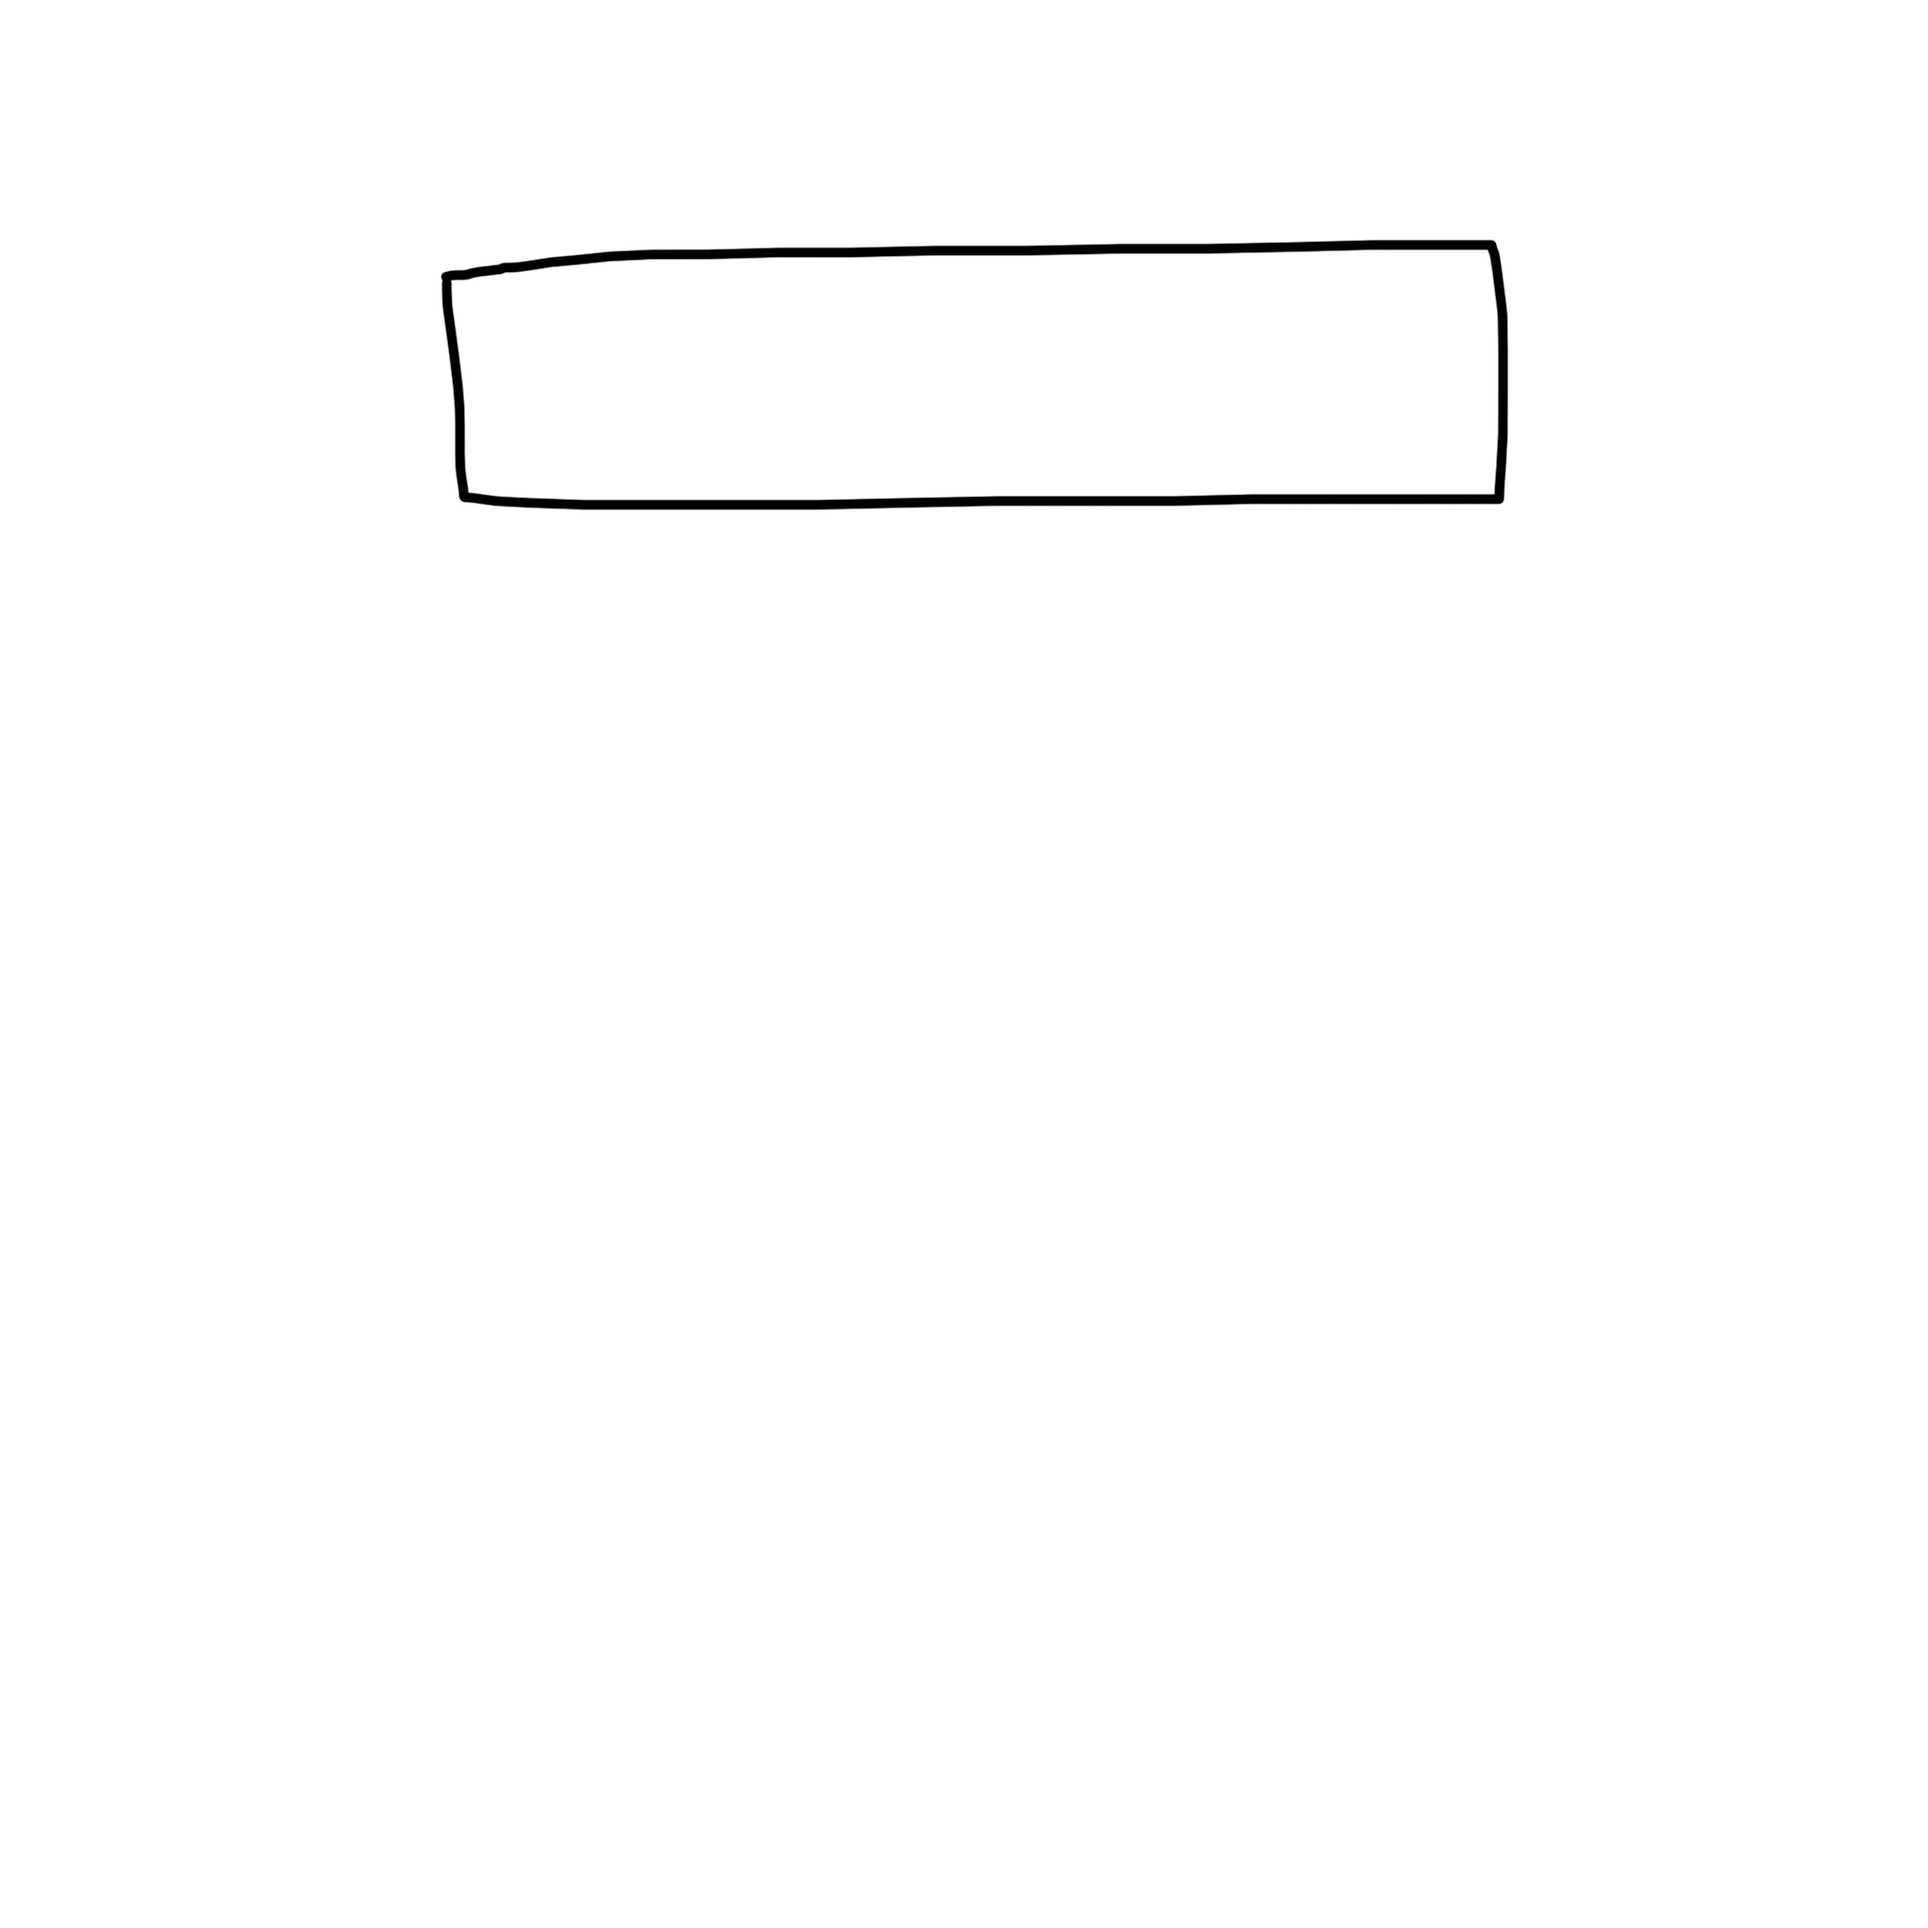
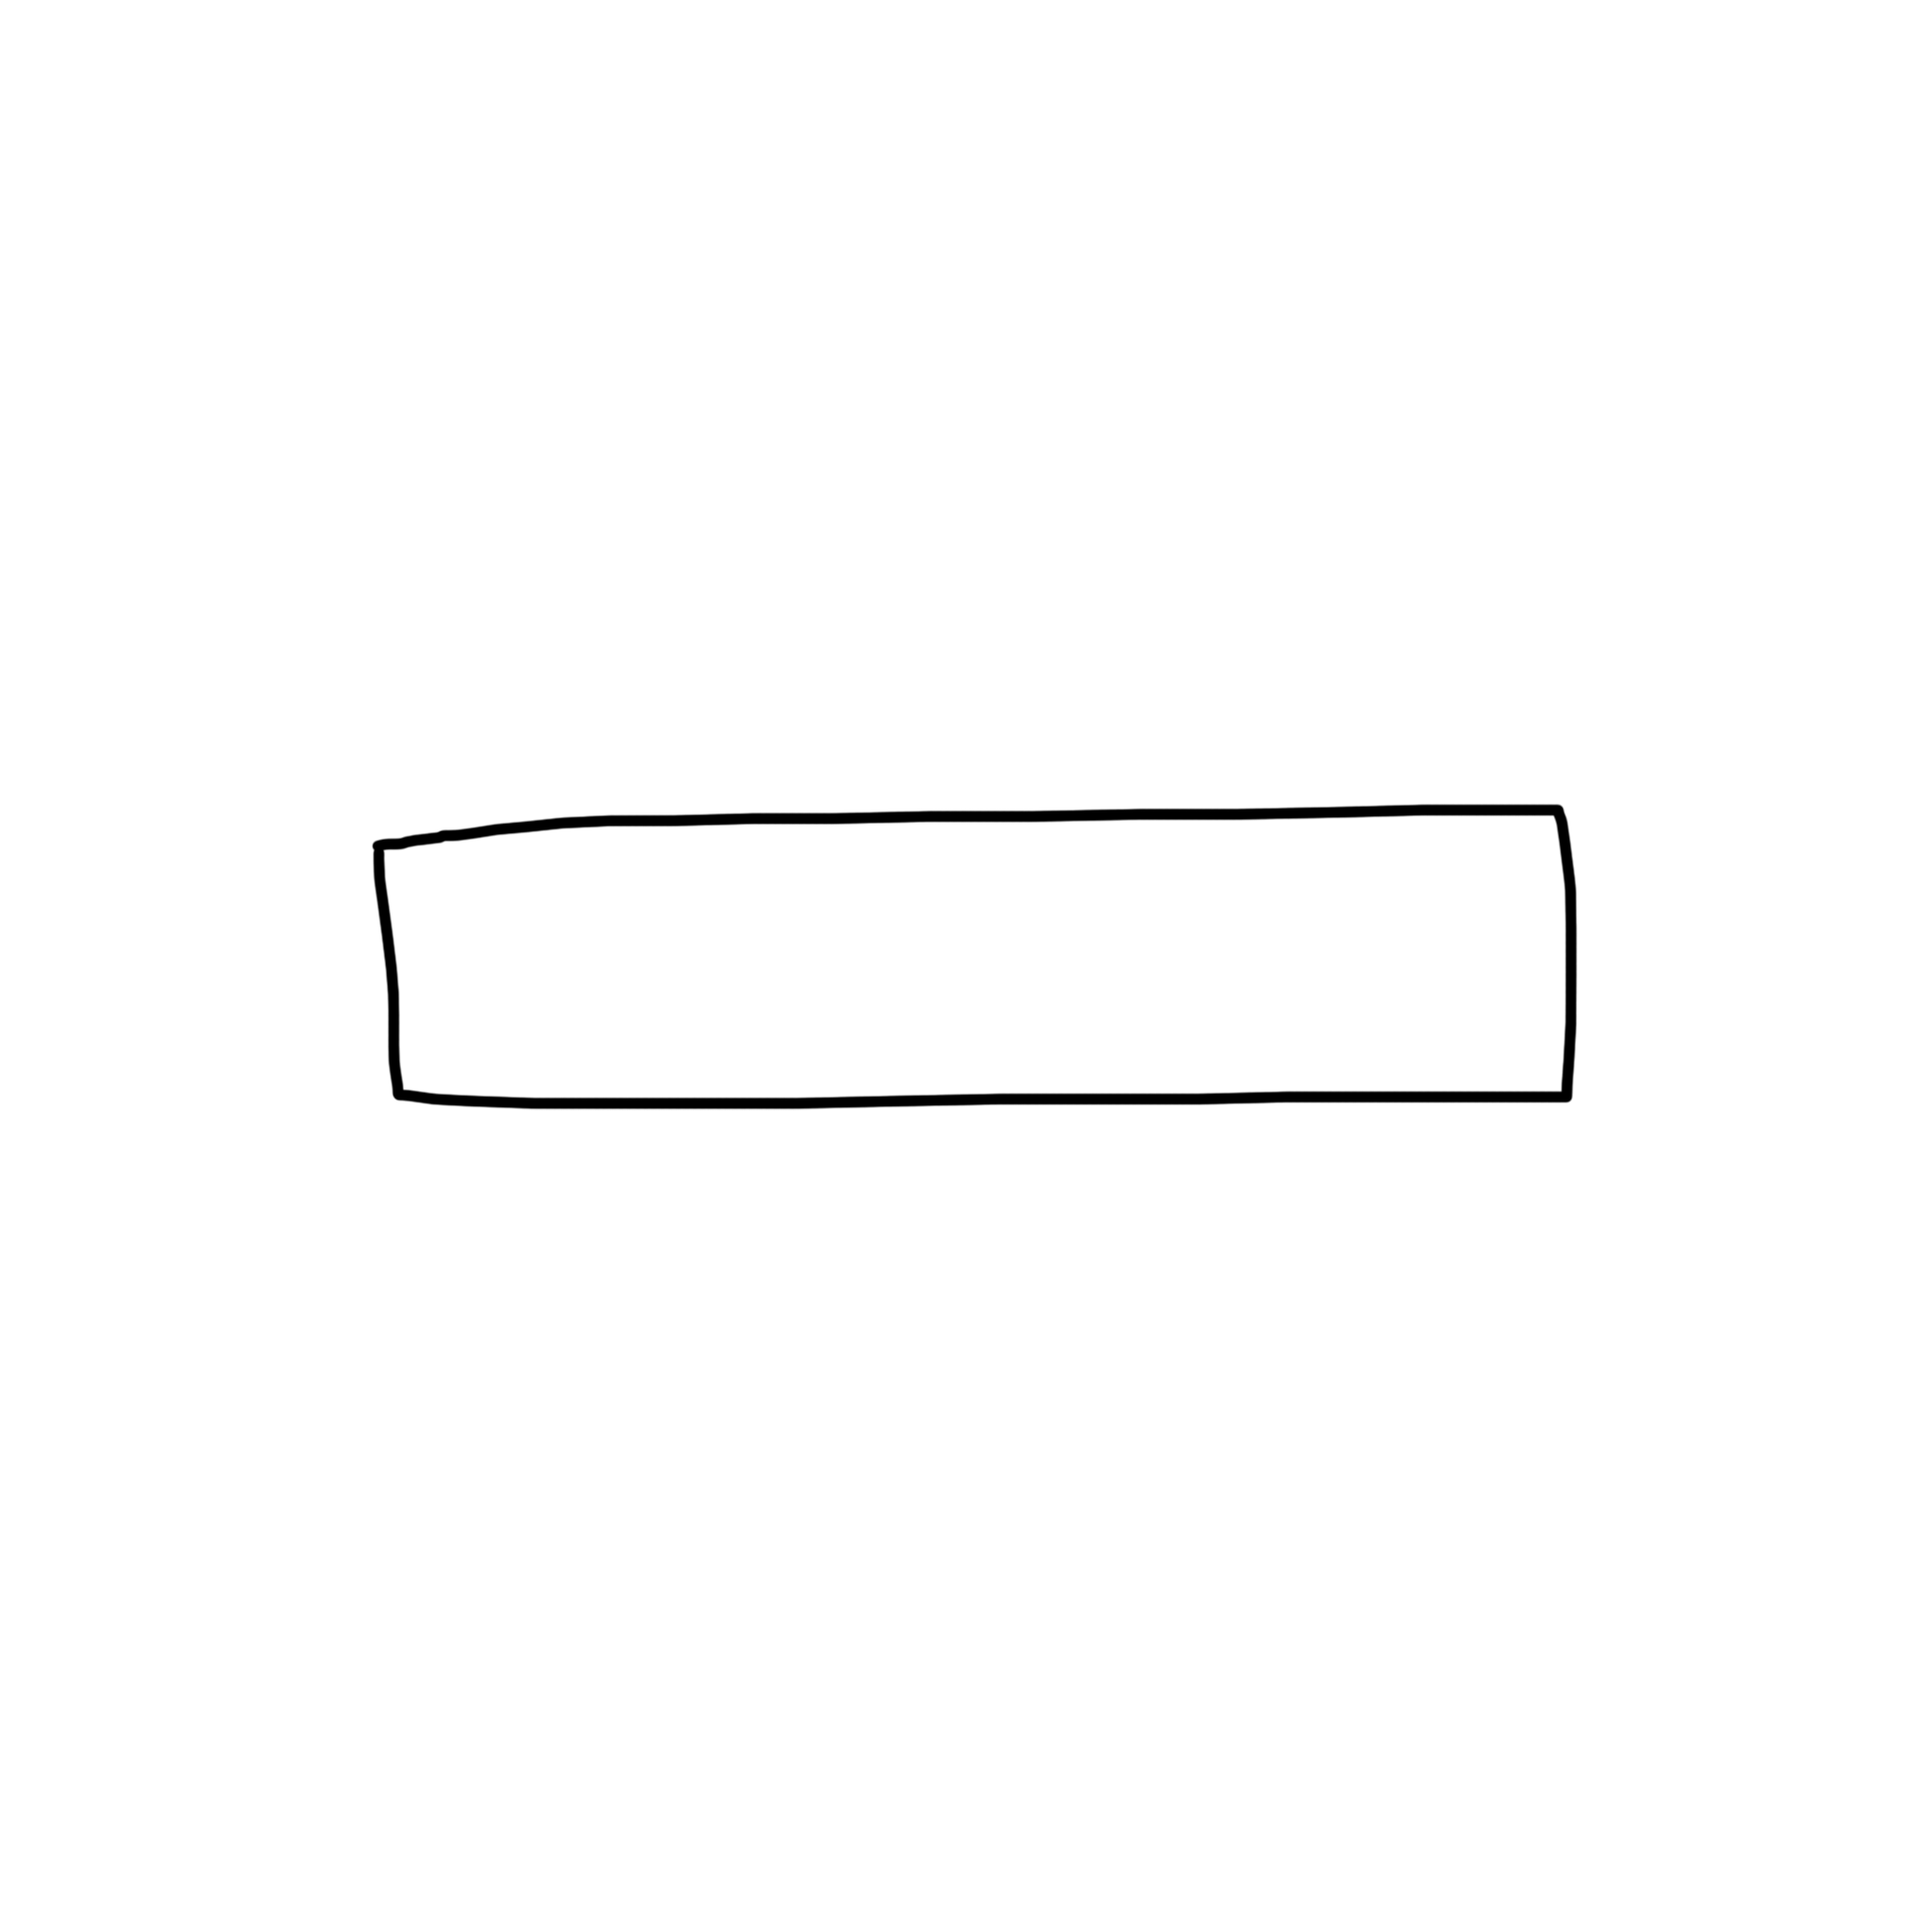
UX update

diff --git a/demos/nextjs/soul-summons/src/app/thinking-meme/Thinker.tsx b/demos/nextjs/soul-summons/src/app/thinking-meme/Thinker.tsx
@@ -98,25 +98,59 @@ export default function Thinker() {
     ]
 
     const positions = [
-        'w-[10em] top-[14%] left-[33%] text-center',
-        'w-[10em] top-[49%] right-[7%] text-right',
-        'w-[10em] bottom-[17%] left-[30%] text-center',
-        'w-[10em] top-[48%] left-[6%] text-left',
+        'w-[50%] top-[7%] left-[30%] text-center',
+        'w-[50%] top-[50%] right-[-4%] text-right',
+        'w-[50%] bottom-[8%] left-[28%] text-center',
+        'w-[50%] top-[49%] left-[-8%] text-left',
     ]
+
 
     return (
         <>
+
+
+            <div className={`bg-white w-screen flex justify-center ${scale}`}>
+                <Bentoish className={`relative w-[24em] h-[24em] `}>
+
+                    <ImageLayer src={'/thinking-meme/ThinkingMeme_input.png'} className={stateClassName['waiting']} />
+
+                    <div className=''>
+                        {cycles.map((c, i) =>
+                            <Blinking key={i} enabled={i.toString() === cycle} opacity={true}>
+                                <TextBox
+                                    text={`${c}`}
+                                    className={`absolute z-[1000] max-w-[11em] text-sm text-gray-400 ${textStyle} ${showBorder} ${positions[i]}`}
+                                />
+                            </Blinking>
+                        )}
+                        <ImageLayer src={'/thinking-meme/ThinkingMeme_cycle.png'} />
+                        {/* <ImageLayer className='scale-[.75]' src={'/thinking-meme/ThinkingMeme_chair.png'} /> */}
+                    </div>
+
+                    <div className={`absolute top-[45%] flex flex-col w-full`}>
+                        <InputForm className={`w-[60%] text-sm mx-auto z-[100] ${showBorder}`}>
+                            <InputTextArea
+                                className='w-full border-none bg-transparent focus:border-none outline-0'
+                                placeholder={'break the cycle...'}
+                                maxLength={65}
+                            />
+                        </InputForm>
+                    </div>
+
+                </Bentoish>
+            </div>
+
             <div className={`bg-white w-screen flex justify-center ${scale} `}>
 
-                <Bentoish className={`relative ${width} ${height} `}>
+                <Bentoish className={`relative ${width} ${height} mt-[-11em] `}>
 
                     <div className=''>
 
                         {metadata?.animation && <Blinking rate={5800}>
-                            <ImageAnimated 
-                            className='z-[1111]'
-                            srcs={['/thinking-meme/ThinkingMeme_eyes.png', '/thinking-meme/ThinkingMeme_eyes_star.png']} 
-                            rate={3200} />
+                            <ImageAnimated
+                                className='z-[1111]'
+                                srcs={['/thinking-meme/ThinkingMeme_eyes.png', '/thinking-meme/ThinkingMeme_eyes_star.png']}
+                                rate={3200} />
                         </Blinking>}
 
                         <TextBox
@@ -135,7 +169,6 @@ export default function Thinker() {
                         {state === 'thinking' && <ImageAnimated srcs={THINKING_BUBBLES} />}
 
 
-                        <ImageLayer src={'/thinking-meme/ThinkingMeme_input.png'} className={stateClassName['waiting']} />
                         <ImageLayer src={'/thinking-meme/ThinkingMeme_0002s_0000_speech.png'} className={stateClassName['speaking']} />
 
                         {/* <div className='absolute bottom-8 left-20 flex flex-row gap-2'>
@@ -145,15 +178,6 @@ export default function Thinker() {
 
                     </div>
 
-                    <div className={`absolute top-[15%] flex flex-col w-full`}>
-                        <InputForm className={`w-[50%] text-sm mx-auto z-[100] ${showBorder}`}>
-                            <InputTextArea
-                                className='w-full border-none bg-transparent focus:border-none outline-0'
-                                placeholder={'speak to me...'}
-                                maxLength={65}
-                            />
-                        </InputForm>
-                    </div>
 
                 </Bentoish>
 
@@ -161,22 +185,6 @@ export default function Thinker() {
 
             {/* <MessageBox messages={messages} className='min-h-36 p-4 rounded-xl' /> */}
 
-            <div className={`bg-white w-screen flex justify-center ${scale}`}>
-                <Bentoish className={`relative ${width} ${height} `}>
-                    <div className=''>
-                        {cycles.map((c, i) =>
-                            <Blinking key={i} enabled={i.toString() === cycle}>
-                                <TextBox
-                                    text={`${c}`}
-                                    className={`absolute z-[1000] max-w-[11em] text-sm text-gray-400 ${textStyle} ${showBorder} ${positions[i]}`}
-                                />
-                            </Blinking>
-                        )}
-                        <ImageLayer src={'/thinking-meme/ThinkingMeme_cycle.png'} />
-                        <ImageLayer className='scale-[.75]' src={'/thinking-meme/ThinkingMeme_chair.png'} />
-                    </div>
-                </Bentoish>
-            </div>
 
             {/* <div className="mb-32 grid text-center lg:max-w-5xl lg:w-full lg:mb-0 lg:grid-cols-4 lg:text-left">
 

diff --git a/demos/nextjs/soul-summons/src/components/Graphics.tsx b/demos/nextjs/soul-summons/src/components/Graphics.tsx
@@ -54,7 +54,7 @@ export function Sprite({ src = '', animate = false, onClick = () => { } }) {
 
 export function ImageLayer({ src = '', alt = '', className = '', width = 1024, height = 1024 }) {
 
-    const cn = twMerge('absolute m-auto ', className)
+    const cn = twMerge('absolute m-auto select-none ', className)
     return (
         <>
             {src &&
@@ -69,7 +69,7 @@ export function ImageLayer({ src = '', alt = '', className = '', width = 1024, h
     )
 }
 
-export function ImageAnimated({ srcs, rate = 200, className = '' } : { srcs: string[], rate?: number, className?: string }) {
+export function ImageAnimated({ srcs, rate = 200, className = '' }: { srcs: string[], rate?: number, className?: string }) {
 
     const [frame, setFrame] = useState<number>(0);
 
@@ -88,12 +88,16 @@ export function ImageAnimated({ srcs, rate = 200, className = '' } : { srcs: str
     )
 }
 
-export function Blinking({ enabled = true, rate = 500, children }: { enabled?:boolean, rate?: number, children: React.ReactNode }) {
+export function Blinking(
+    { enabled = true, rate = 500, opacity = false, opacityClass = 'opacity-50', children }:
+        { enabled?: boolean, rate?: number, opacity?: boolean, opacityClass?: string, children: React.ReactNode }
+) {
 
     const [visible, setVisible] = useState<boolean>(true);
+    const cn = opacity ? (visible ? 'opacity-100' : opacityClass) : (visible ? 'visible' : 'invisible');
 
     useEffect(() => {
-        if(!enabled) {
+        if (!enabled) {
             setVisible(true);
             return;
         }
@@ -102,10 +106,10 @@ export function Blinking({ enabled = true, rate = 500, children }: { enabled?:bo
         }, rate);
 
         return () => clearInterval(timer);
-    }, [rate, enabled])
+    }, [rate])
 
     return (
-        <div className={visible ? 'visible' : 'invisible'}>
+        <div className={cn}>
             {children}
         </div>
     )
